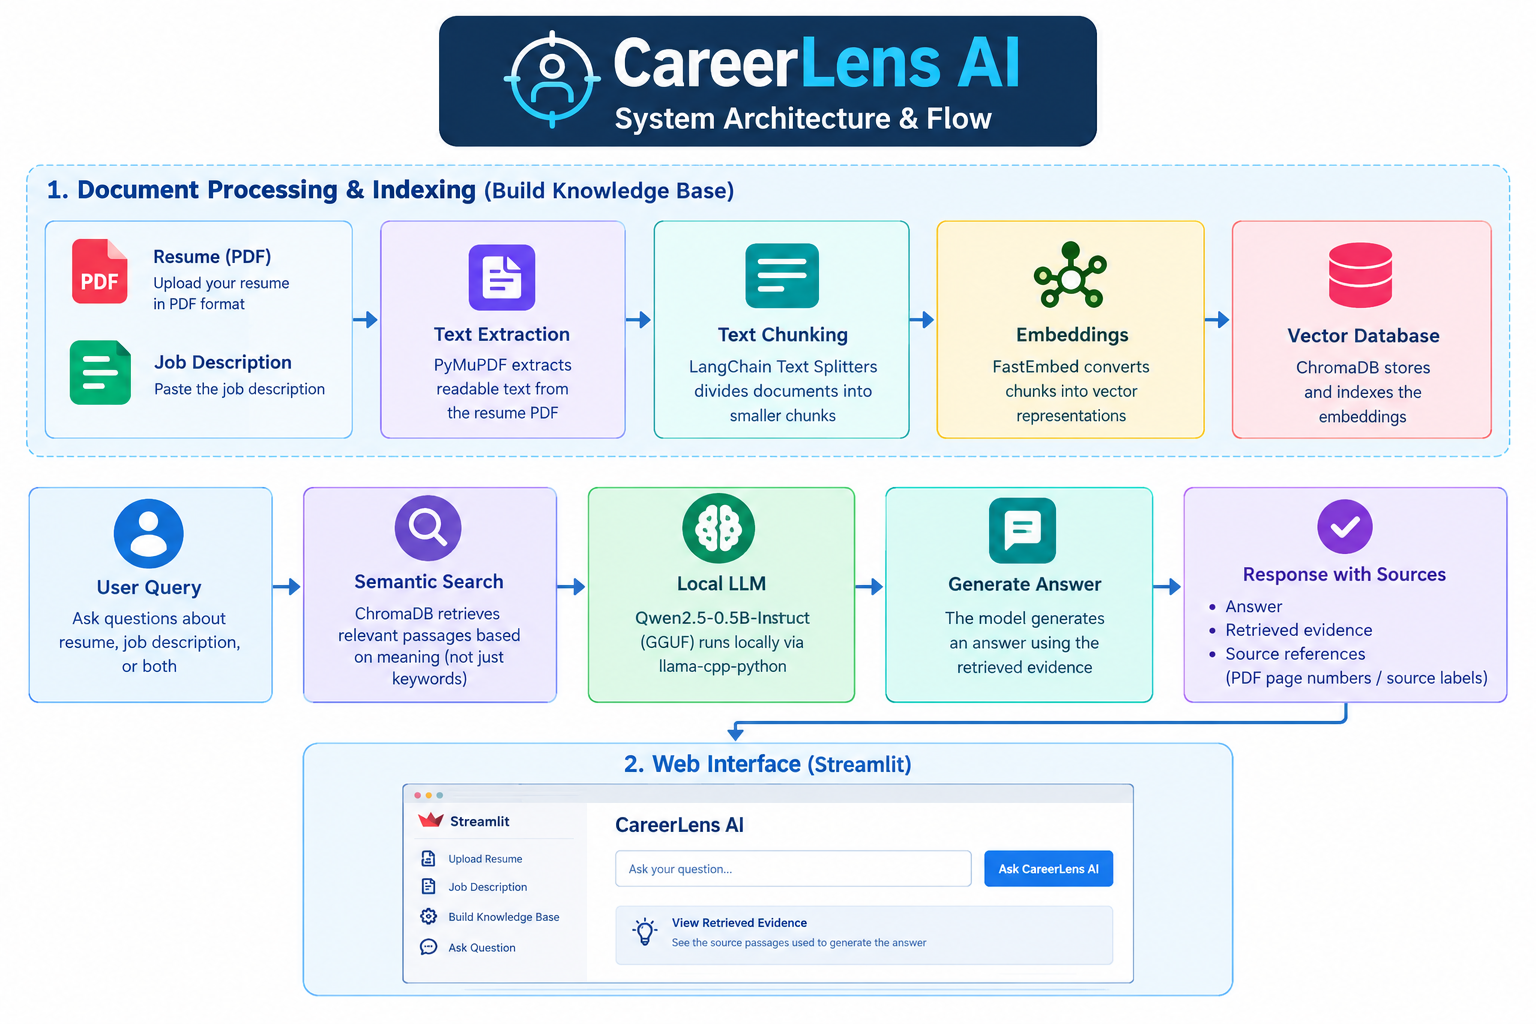
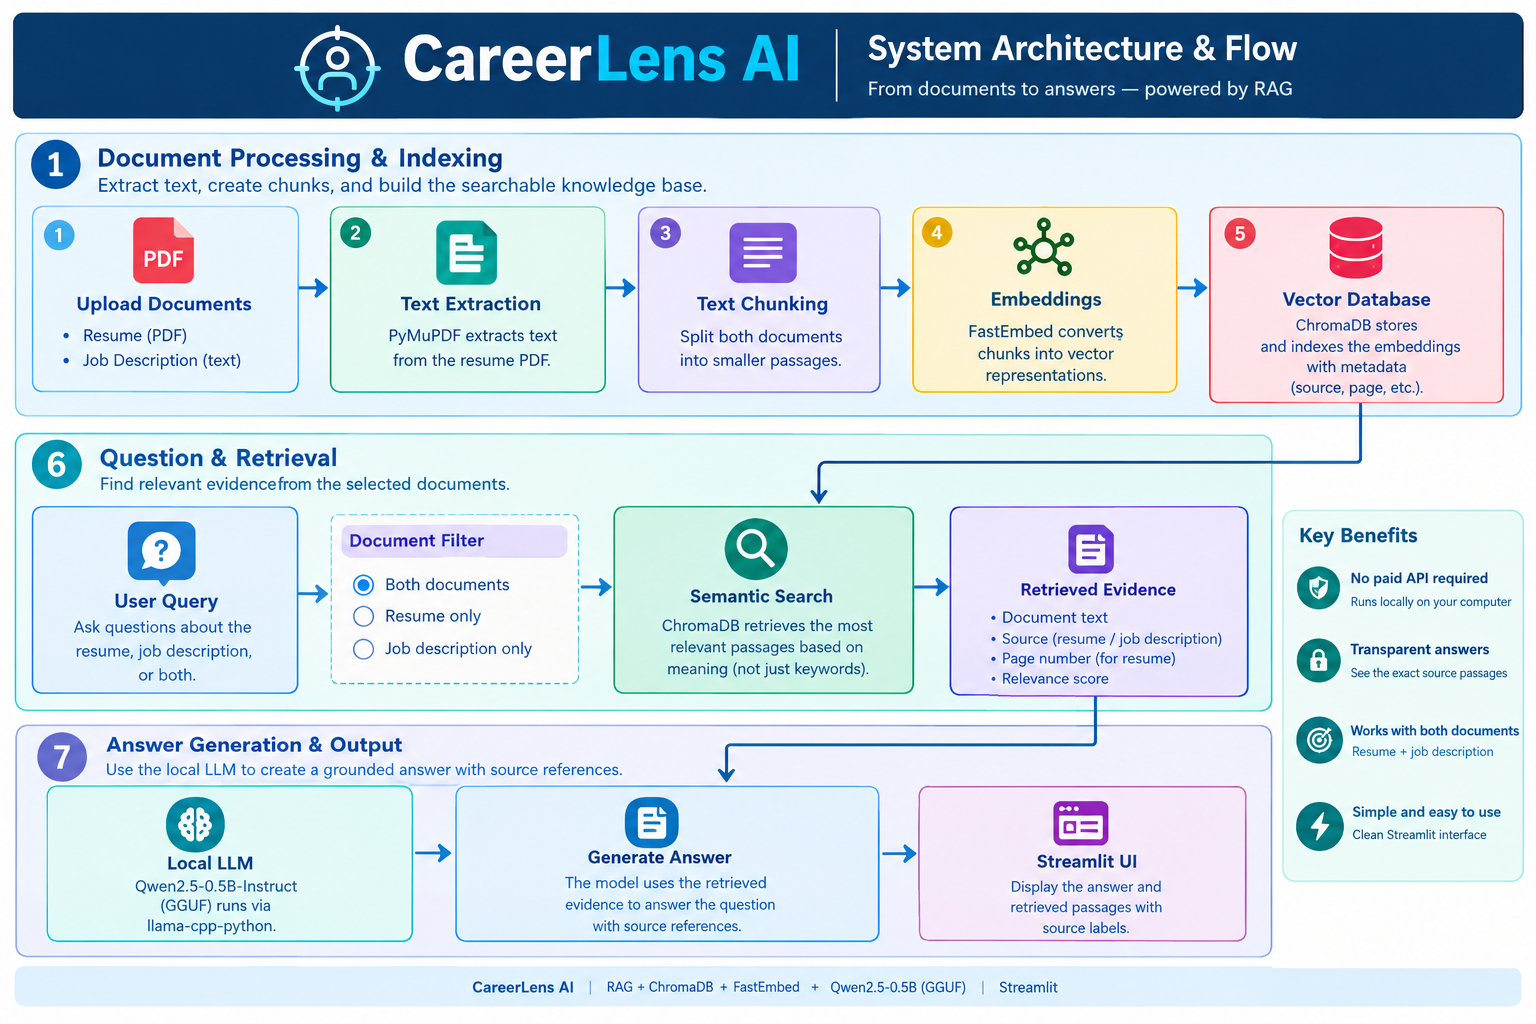
Update app and architecture diagram

diff --git a/app.py b/app.py
@@ -1,4 +1,3 @@
-
 import streamlit as st
 import fitz
 import chromadb
@@ -9,10 +8,7 @@ from langchain_text_splitters import RecursiveCharacterTextSplitter
 from llama_cpp import Llama
 
 
-# --------------------------------------------------
-# 1. APP CONFIGURATION
-# --------------------------------------------------
-
+# CareerLens AI | Built by Team CareerGram
 st.set_page_config(
     page_title="CareerLens AI",
     page_icon="🎯",
@@ -34,10 +30,7 @@ MODEL_PATH = (
 COLLECTION_NAME = "career_documents"
 
 
-# --------------------------------------------------
-# 2. LOAD MODELS
-# --------------------------------------------------
-
+# Load the models and database
 @st.cache_resource
 def load_embedding_model():
     return TextEmbedding(
@@ -71,10 +64,7 @@ embedding_model = load_embedding_model()
 chroma_client = load_chroma_client()
 
 
-# --------------------------------------------------
-# 3. EXTRACT TEXT FROM RESUME PDF
-# --------------------------------------------------
-
+# Read the text from each resume page
 def extract_resume_pages(pdf_file):
     pages = []
 
@@ -96,10 +86,7 @@ def extract_resume_pages(pdf_file):
     return pages
 
 
-# --------------------------------------------------
-# 4. SPLIT DOCUMENTS INTO CHUNKS
-# --------------------------------------------------
-
+# Break the resume and job description into smaller pieces
 def create_document_chunks(resume_pages, job_description):
     splitter = RecursiveCharacterTextSplitter(
         chunk_size=500,
@@ -110,7 +97,7 @@ def create_document_chunks(resume_pages, job_description):
     metadatas = []
     ids = []
 
-    # Resume chunks: retain the PDF page number
+    # Keep the page number so we can refer back to the resume
     for page_data in resume_pages:
         chunks = splitter.split_text(page_data["text"])
 
@@ -124,7 +111,7 @@ def create_document_chunks(resume_pages, job_description):
             })
             ids.append(f"resume_{index}")
 
-    # Job-description chunks: no PDF page number
+    # Split the job description and store it separately
     if job_description.strip():
         jd_chunks = splitter.split_text(
             job_description.strip()
@@ -143,10 +130,7 @@ def create_document_chunks(resume_pages, job_description):
     return documents, metadatas, ids
 
 
-# --------------------------------------------------
-# 5. CREATE THE SEARCHABLE KNOWLEDGE BASE
-# --------------------------------------------------
-
+# Save the document chunks in ChromaDB for searching
 def build_knowledge_base(resume_file, job_description):
     resume_pages = extract_resume_pages(resume_file)
 
@@ -169,12 +153,12 @@ def build_knowledge_base(resume_file, job_description):
     if not documents:
         raise ValueError("No document text was found.")
 
-    # Embed the chunks
+    # Convert each chunk into an embedding
     embeddings = list(
         embedding_model.embed(documents)
     )
 
-    # Rebuild the collection using the latest documents
+    # Start with a fresh collection for the uploaded documents
     try:
         chroma_client.delete_collection(
             COLLECTION_NAME
@@ -187,7 +171,7 @@ def build_knowledge_base(resume_file, job_description):
         metadata={"hnsw:space": "cosine"},
     )
 
-    # Add in batches to limit memory usage
+    # Add the chunks in small batches
     batch_size = 32
 
     for start in range(0, len(documents), batch_size):
@@ -203,10 +187,7 @@ def build_knowledge_base(resume_file, job_description):
     return len(documents), len(resume_pages)
 
 
-# --------------------------------------------------
-# 6. RETRIEVE RELEVANT DOCUMENT EVIDENCE
-# --------------------------------------------------
-
+# Find the document chunks most relevant to a question
 def retrieve_evidence(question, document_filter, top_k=4):
     collection = chroma_client.get_collection(
         name=COLLECTION_NAME
@@ -229,7 +210,7 @@ def retrieve_evidence(question, document_filter, top_k=4):
         ],
     }
 
-    # Apply a source filter if the user selects one document
+    # Search only the selected document, if needed
     if document_filter == "Resume only":
         query_args["where"] = {
             "source": "resume"
@@ -266,10 +247,7 @@ def retrieve_evidence(question, document_filter, top_k=4):
     return evidence
 
 
-# --------------------------------------------------
-# 7. GENERATE A GROUNDED ANSWER WITH THE SMALL LLM
-# --------------------------------------------------
-
+# Use the retrieved text to answer the question
 def generate_answer(question, evidence):
     llm = load_llm()
 
@@ -326,10 +304,7 @@ Write a clear, helpful answer with source references.
     return response["choices"][0]["message"]["content"]
 
 
-# --------------------------------------------------
-# 8. DOCUMENT UPLOAD AND INDEXING INTERFACE
-# --------------------------------------------------
-
+# Upload the documents and prepare them for searching
 st.subheader("Step 1: Add your documents")
 
 resume_file = st.file_uploader(
@@ -381,10 +356,7 @@ if st.button(
                 st.error(f"Could not build the knowledge base: {error}")
 
 
-# --------------------------------------------------
-# 9. ASK QUESTIONS ABOUT THE DOCUMENTS
-# --------------------------------------------------
-
+# Ask questions and display the answers
 st.divider()
 st.subheader("Step 2: Ask a question")
 
@@ -429,6 +401,7 @@ if st.button("Ask CareerLens AI"):
             st.subheader("Answer")
             st.write(answer)
 
+            # Show the text used to generate the answer
             with st.expander("View retrieved evidence"):
                 for number, item in enumerate(evidence, start=1):
                     st.markdown(
@@ -440,10 +413,7 @@ if st.button("Ask CareerLens AI"):
             st.error(f"Something went wrong: {error}")
 
 
-# --------------------------------------------------
-# 10. SIDEBAR
-# --------------------------------------------------
-
+# A few details about the app
 with st.sidebar:
     st.header("About CareerLens AI")
     st.write(
